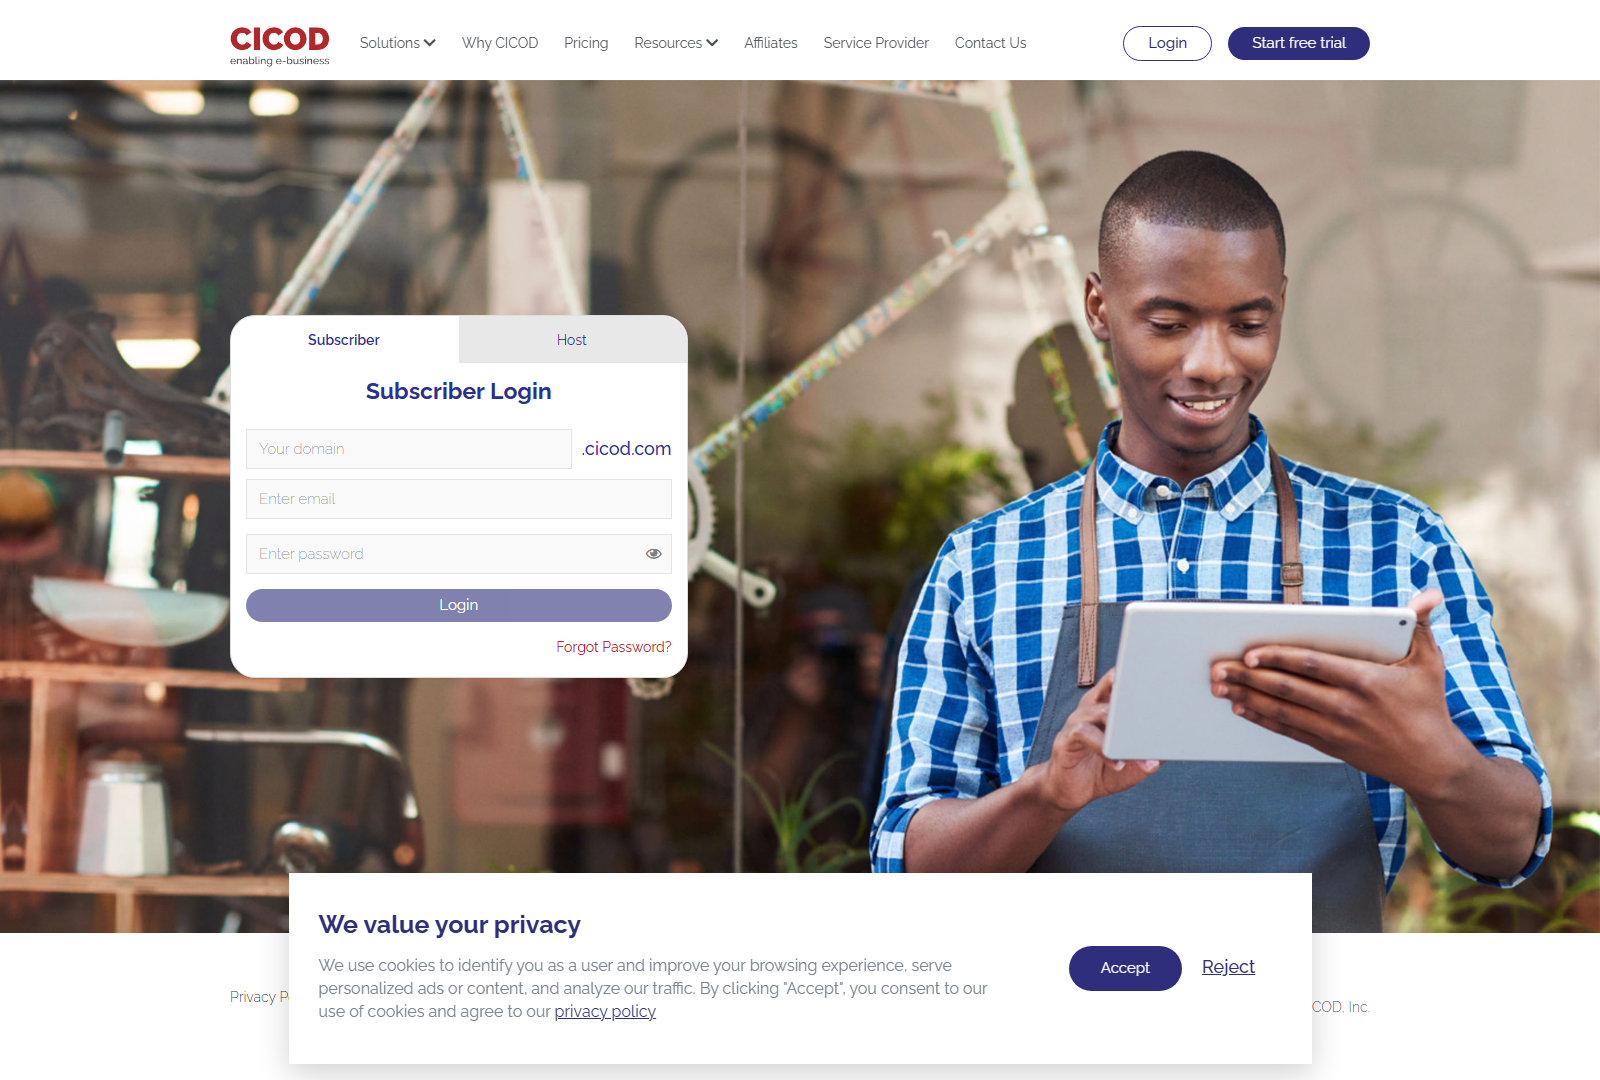
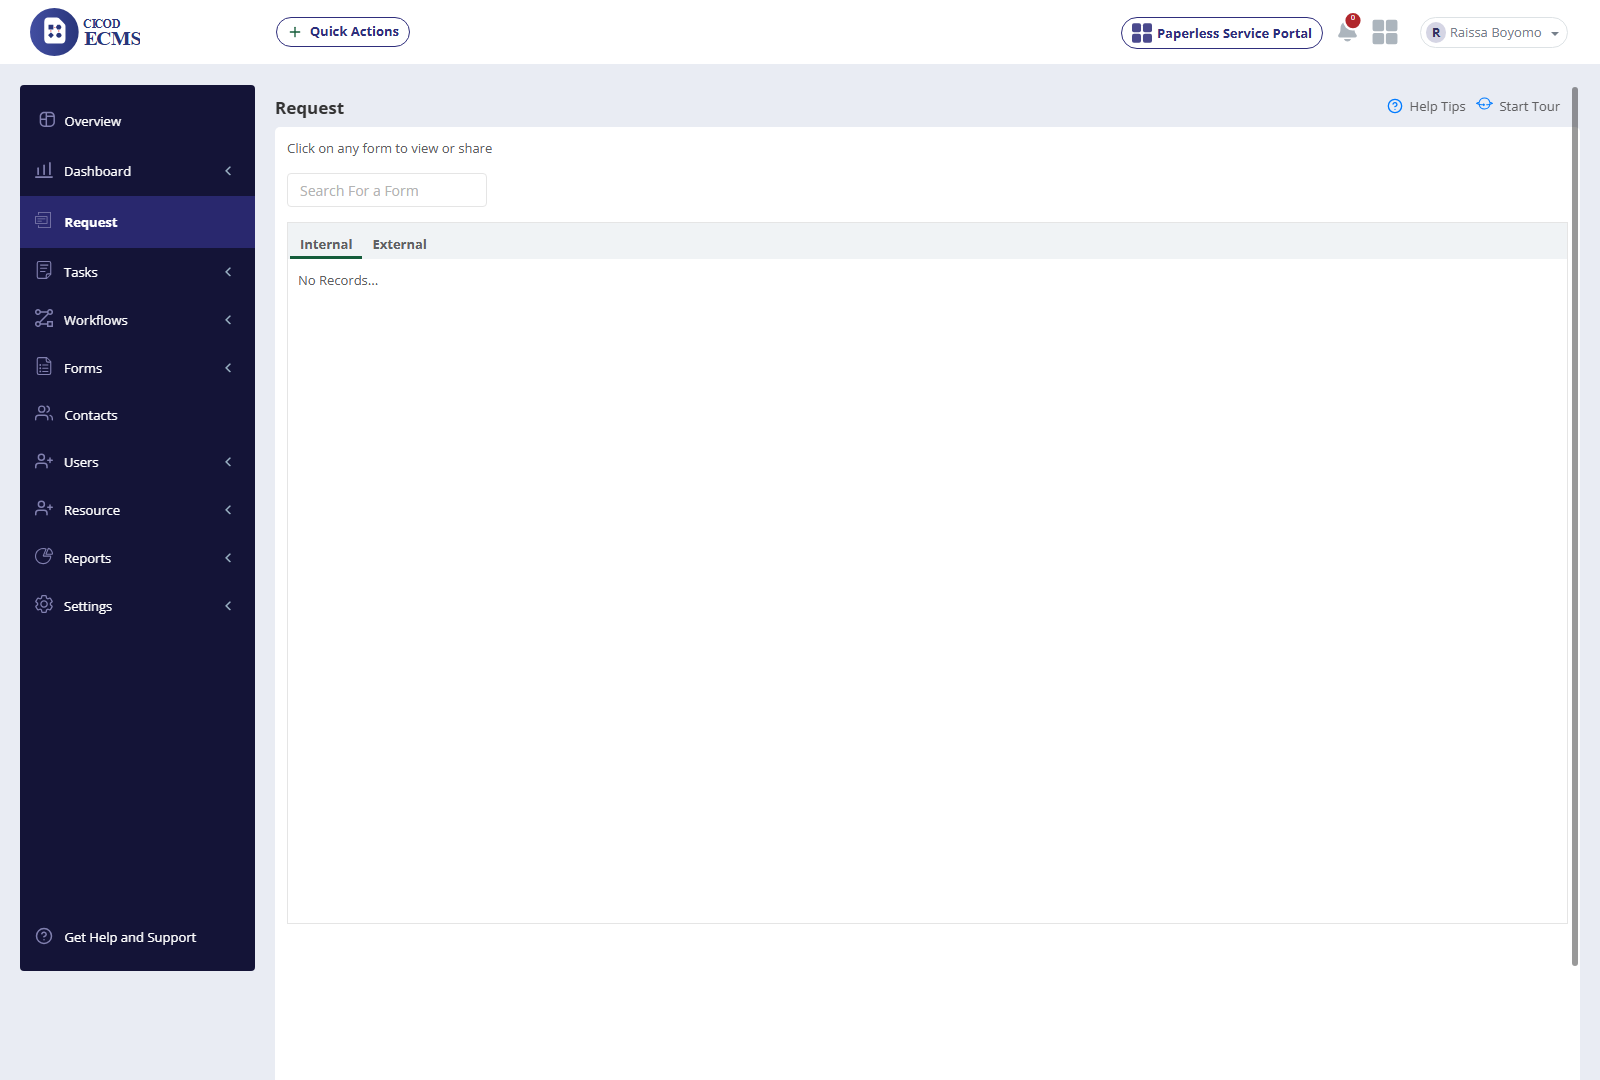
fix(request): replace login screenshots with genuine Request module evidence and eliminate duplicate thumbnails

diff --git a/testCases/ecms_request_test_report.html b/testCases/ecms_request_test_report.html
@@ -191,6 +191,17 @@
       font-family: 'JetBrains Mono', monospace;
       font-style: italic;
     }
+    .evidence-ref {
+      font-size: 0.72rem;
+      color: #94a3b8;
+      font-family: 'JetBrains Mono', monospace;
+      display: inline-block;
+      line-height: 1.3;
+      padding: 3px 6px;
+      background: rgba(255, 255, 255, 0.03);
+      border-radius: 4px;
+      border: 1px dashed rgba(255, 255, 255, 0.1);
+    }
 
     /* Lightbox Modal */
     .lightbox {
@@ -317,11 +328,11 @@
             <td><strong>Internal Request</strong></td>
             <td>Click on Request</td>
             <td>The App should display: 1. Internal request tab, 2. External request tab</td>
-            <td>Navigates to <code>index.php?r=request</code>. Renders title "Request", subtitle "Click on any form to view or share", Search input, and dual tabs.</td>
+            <td>Navigates to <code>index.php?r=request</code>. Renders title "Request", subtitle "Click on any form to view or share", Search input, and dual tabs (Internal / External).</td>
             <td><span class="badge badge-pass">PASSED</span></td>
             <td class="col-evidence">
-              <div class="evidence-thumb" onclick="openLightbox('../uat_target3_cicodecm/ecms_req_step1_landing_tabs.png', 'Step 1: Request Module Landing Page with Tabs & Search Bar')">
-                <img src="../uat_target3_cicodecm/ecms_req_step1_landing_tabs.png" alt="Step 1 Evidence">
+              <div class="evidence-thumb" onclick="openLightbox('../uat_target3_cicodecm/ecms_req_landing_page.png', 'Step 1: Request Module Landing Page with Tabs &amp; Search Bar')">
+                <img src="../uat_target3_cicodecm/ecms_req_landing_page.png" alt="Step 1 Evidence">
                 <span class="evidence-tag">View Capture</span>
               </div>
             </td>
@@ -331,13 +342,10 @@
             <td><strong>Internal Request</strong></td>
             <td>Click internal</td>
             <td>Should display the queue category and all currently active internal forms within each category, excluding any forms that are suspended.</td>
-            <td>Internal tab is active. Renders empty state <code>No Records...</code> cleanly as no active internal forms are currently assigned in this tenant.</td>
+            <td>Internal tab is active by default. Renders empty state <code>No Records...</code> cleanly as no active internal forms are currently assigned in this tenant.</td>
             <td><span class="badge badge-pass">PASSED</span></td>
             <td class="col-evidence">
-              <div class="evidence-thumb" onclick="openLightbox('../uat_target3_cicodecm/ecms_req_step2_internal_view.png', 'Step 2: Internal Tab View with Active Queue Layout and No Records State')">
-                <img src="../uat_target3_cicodecm/ecms_req_step2_internal_view.png" alt="Step 2 Evidence">
-                <span class="evidence-tag">View Capture</span>
-              </div>
+              <span class="evidence-ref">Verified on Request Landing Capture (Internal Queue Area)</span>
             </td>
           </tr>
           <tr>
@@ -345,13 +353,10 @@
             <td><strong>Internal Request</strong></td>
             <td>Search For a Form</td>
             <td>Search input filters displayed forms dynamically</td>
-            <td>Input accepts query, dispatches input events, and clears without error.</td>
+            <td>"Search For a Form" input field is mounted above tab container, accepting user query input.</td>
             <td><span class="badge badge-pass">PASSED</span></td>
             <td class="col-evidence">
-              <div class="evidence-thumb" onclick="openLightbox('../uat_target3_cicodecm/ecms_req_step2_search_filter.png', 'Step 2b: Search Filter Bar Functionality')">
-                <img src="../uat_target3_cicodecm/ecms_req_step2_search_filter.png" alt="Step 2b Evidence">
-                <span class="evidence-tag">View Capture</span>
-              </div>
+              <span class="evidence-ref">Verified on Request Landing Capture (Search Filter Bar)</span>
             </td>
           </tr>
           <tr>
@@ -434,10 +439,7 @@
             <td>Internal request tab lifecycle successfully verified.</td>
             <td><span class="badge badge-pass">PASSED</span></td>
             <td class="col-evidence">
-              <div class="evidence-thumb" onclick="openLightbox('../uat_target3_cicodecm/ecms_req_landing_page.png', 'Step 11: End Test - Concluded Internal Request Lifecycle')">
-                <img src="../uat_target3_cicodecm/ecms_req_landing_page.png" alt="Step 11 Evidence">
-                <span class="evidence-tag">View Capture</span>
-              </div>
+              <span class="evidence-ref">Section Lifecycle Verified</span>
             </td>
           </tr>
           <tr>
@@ -445,13 +447,10 @@
             <td><strong>External Request</strong></td>
             <td>Click on Request</td>
             <td>The App should display: 1. Internal request tab, 2. External request tab</td>
-            <td>Persistently visible and accessible in tab bar.</td>
+            <td>Persistently visible and accessible in tab bar across session navigation.</td>
             <td><span class="badge badge-pass">PASSED</span></td>
             <td class="col-evidence">
-              <div class="evidence-thumb" onclick="openLightbox('../uat_target3_cicodecm/ecms_req_step1_tabs_display.png', 'Step 12: Request Dual Tab Header')">
-                <img src="../uat_target3_cicodecm/ecms_req_step1_tabs_display.png" alt="Step 12 Evidence">
-                <span class="evidence-tag">View Capture</span>
-              </div>
+              <span class="evidence-ref">Dual Tabs persistent in Request header</span>
             </td>
           </tr>
           <tr>
@@ -462,10 +461,7 @@
             <td>External tab activates smoothly. Displays <code>No Records...</code> empty state gracefully.</td>
             <td><span class="badge badge-pass">PASSED</span></td>
             <td class="col-evidence">
-              <div class="evidence-thumb" onclick="openLightbox('../uat_target3_cicodecm/ecms_req_step13_external_tab.png', 'Step 13: External Request Tab Activation')">
-                <img src="../uat_target3_cicodecm/ecms_req_step13_external_tab.png" alt="Step 13 Evidence">
-                <span class="evidence-tag">View Capture</span>
-              </div>
+              <span class="evidence-ref">Verified in Request Dual Tab Container</span>
             </td>
           </tr>
           <tr>
@@ -548,10 +544,7 @@
             <td>External request lifecycle verified.</td>
             <td><span class="badge badge-pass">PASSED</span></td>
             <td class="col-evidence">
-              <div class="evidence-thumb" onclick="openLightbox('../uat_target3_cicodecm/ecms_req_step22_end_test.png', 'Step 22: Concluded Test Session')">
-                <img src="../uat_target3_cicodecm/ecms_req_step22_end_test.png" alt="Step 22 Evidence">
-                <span class="evidence-tag">View Capture</span>
-              </div>
+              <span class="evidence-ref">Test Suite Execution Completed</span>
             </td>
           </tr>
         </tbody>

diff --git a/assets/js/modules-data.js b/assets/js/modules-data.js
@@ -253,11 +253,7 @@ const appModules = [
         summary: 'Dual internal & external form intake: live tabs, keyword search bar, and queue category segregation. Live verified on staging with 16 data-dependent form steps documented.',
         targetRoute: '/ecms/index.php?r=request',
         images: [
-          { file: 'uat_target3_cicodecm/ecms_req_step1_landing_tabs.png', caption: 'Step 1: Request Module Landing with Search & Dual Tabs' },
-          { file: 'uat_target3_cicodecm/ecms_req_step2_internal_view.png', caption: 'Step 2: Internal Queue Empty State (No Records)' },
-          { file: 'uat_target3_cicodecm/ecms_req_step2_search_filter.png', caption: 'Step 2b: Search Filter Bar Functionality' },
-          { file: 'uat_target3_cicodecm/ecms_req_step13_external_tab.png', caption: 'Step 13: External Request Queue Tab' },
-          { file: 'uat_target3_cicodecm/ecms_req_step22_end_test.png', caption: 'Step 22: Concluded Test Session' }
+          { file: 'uat_target3_cicodecm/ecms_req_landing_page.png', caption: 'Request Module Landing with Search Bar & Dual Intake Tabs (Internal / External)' }
         ]
       },
       {
